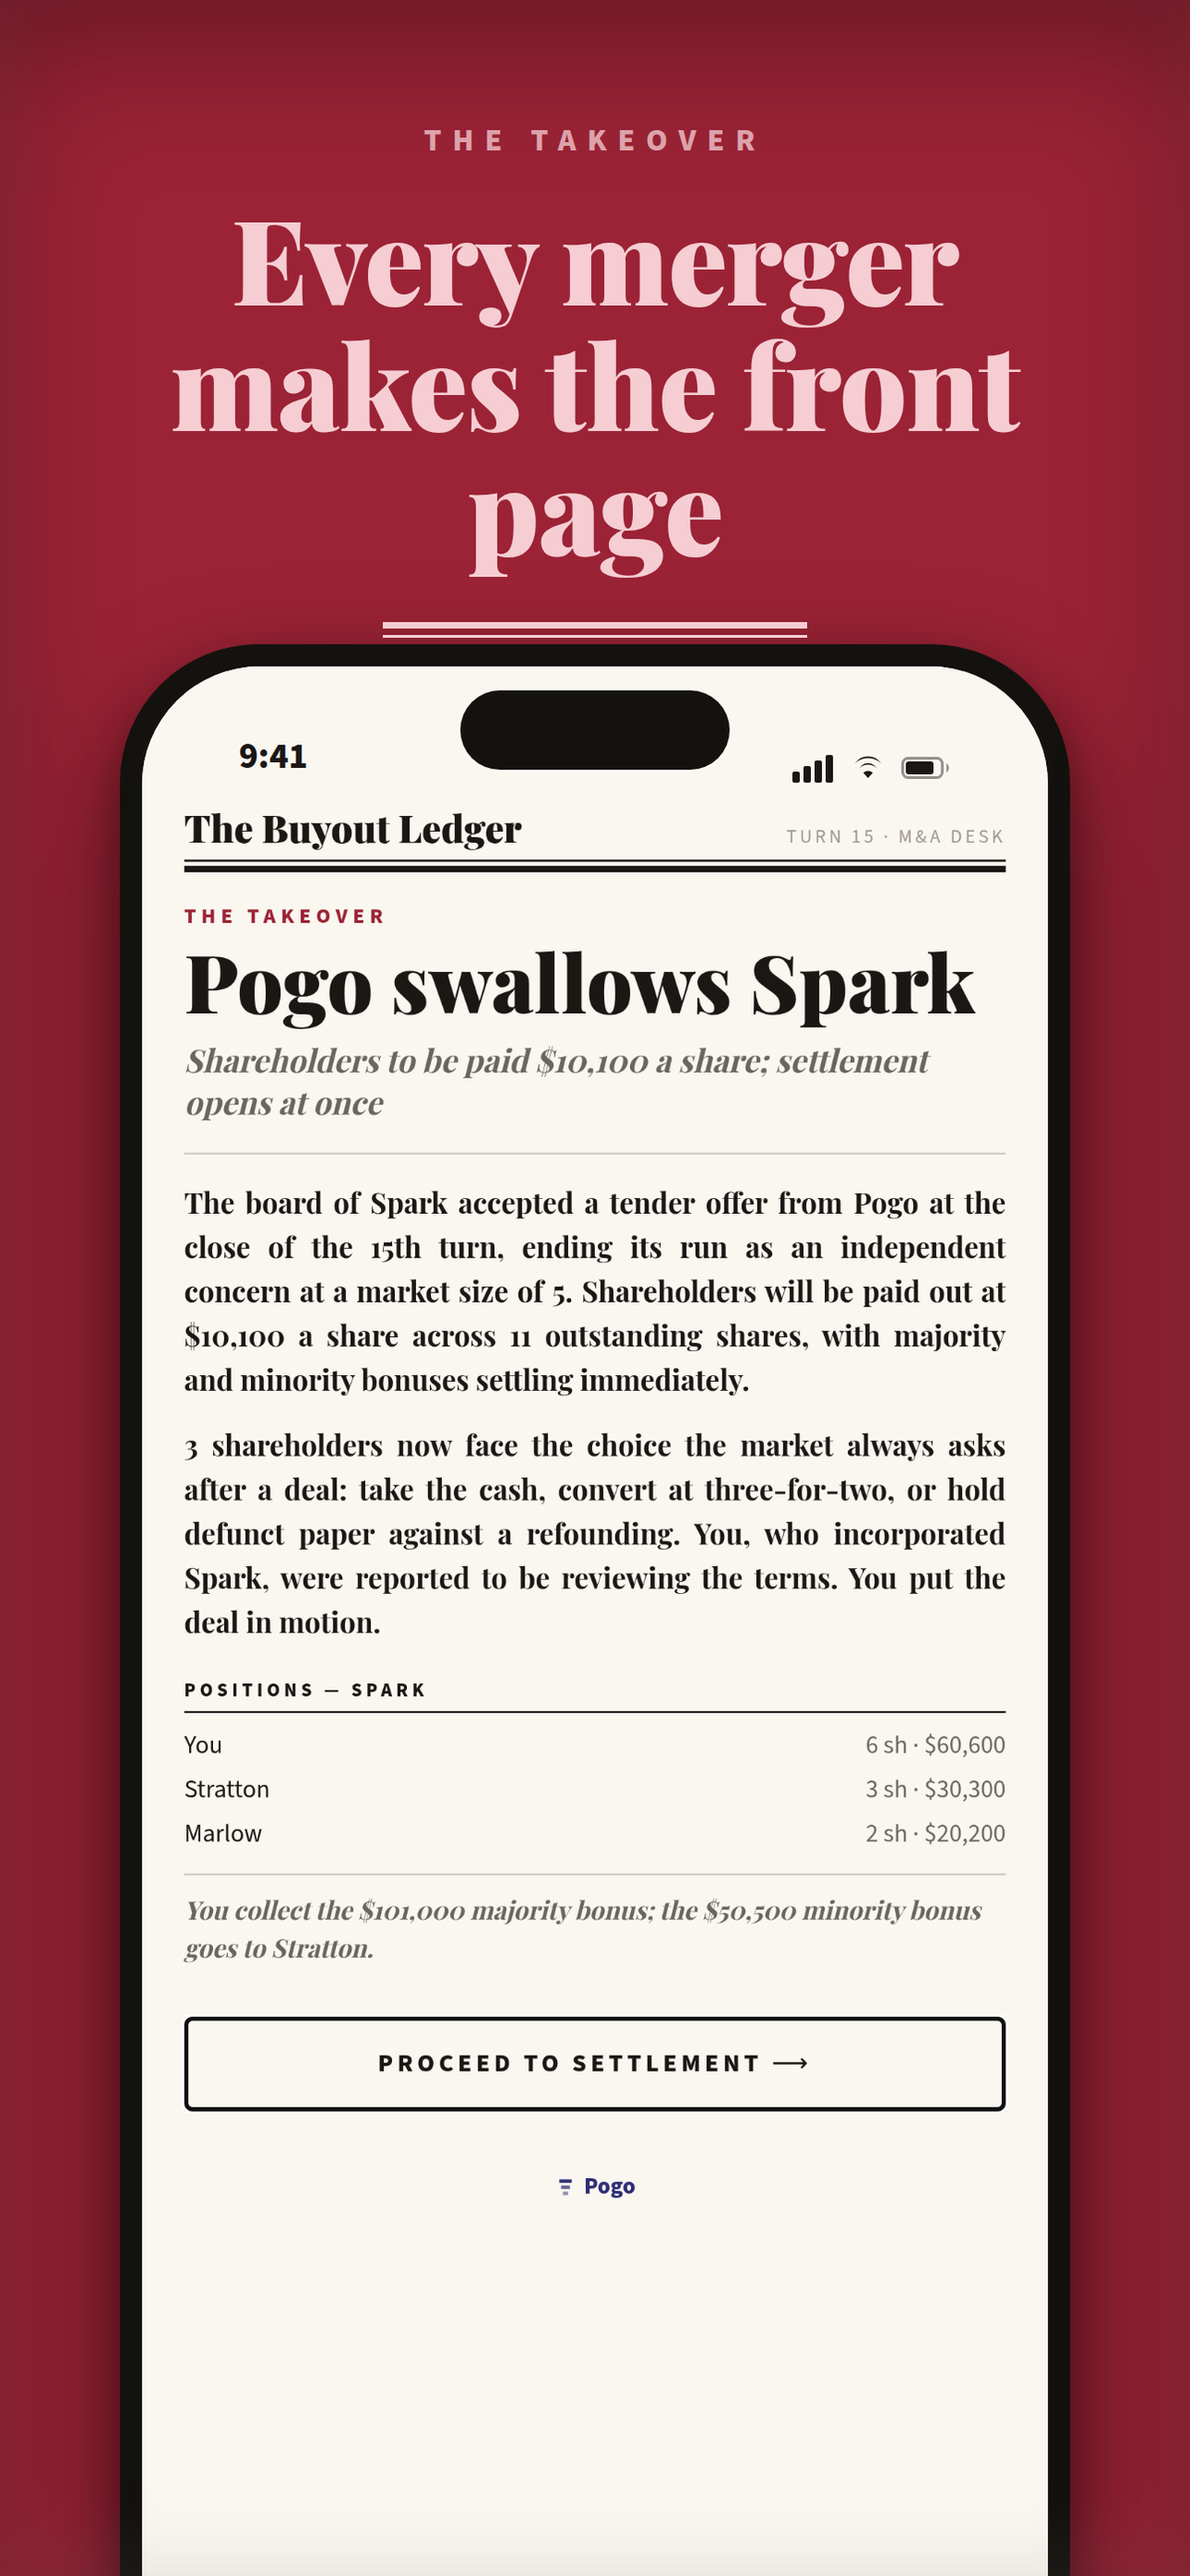
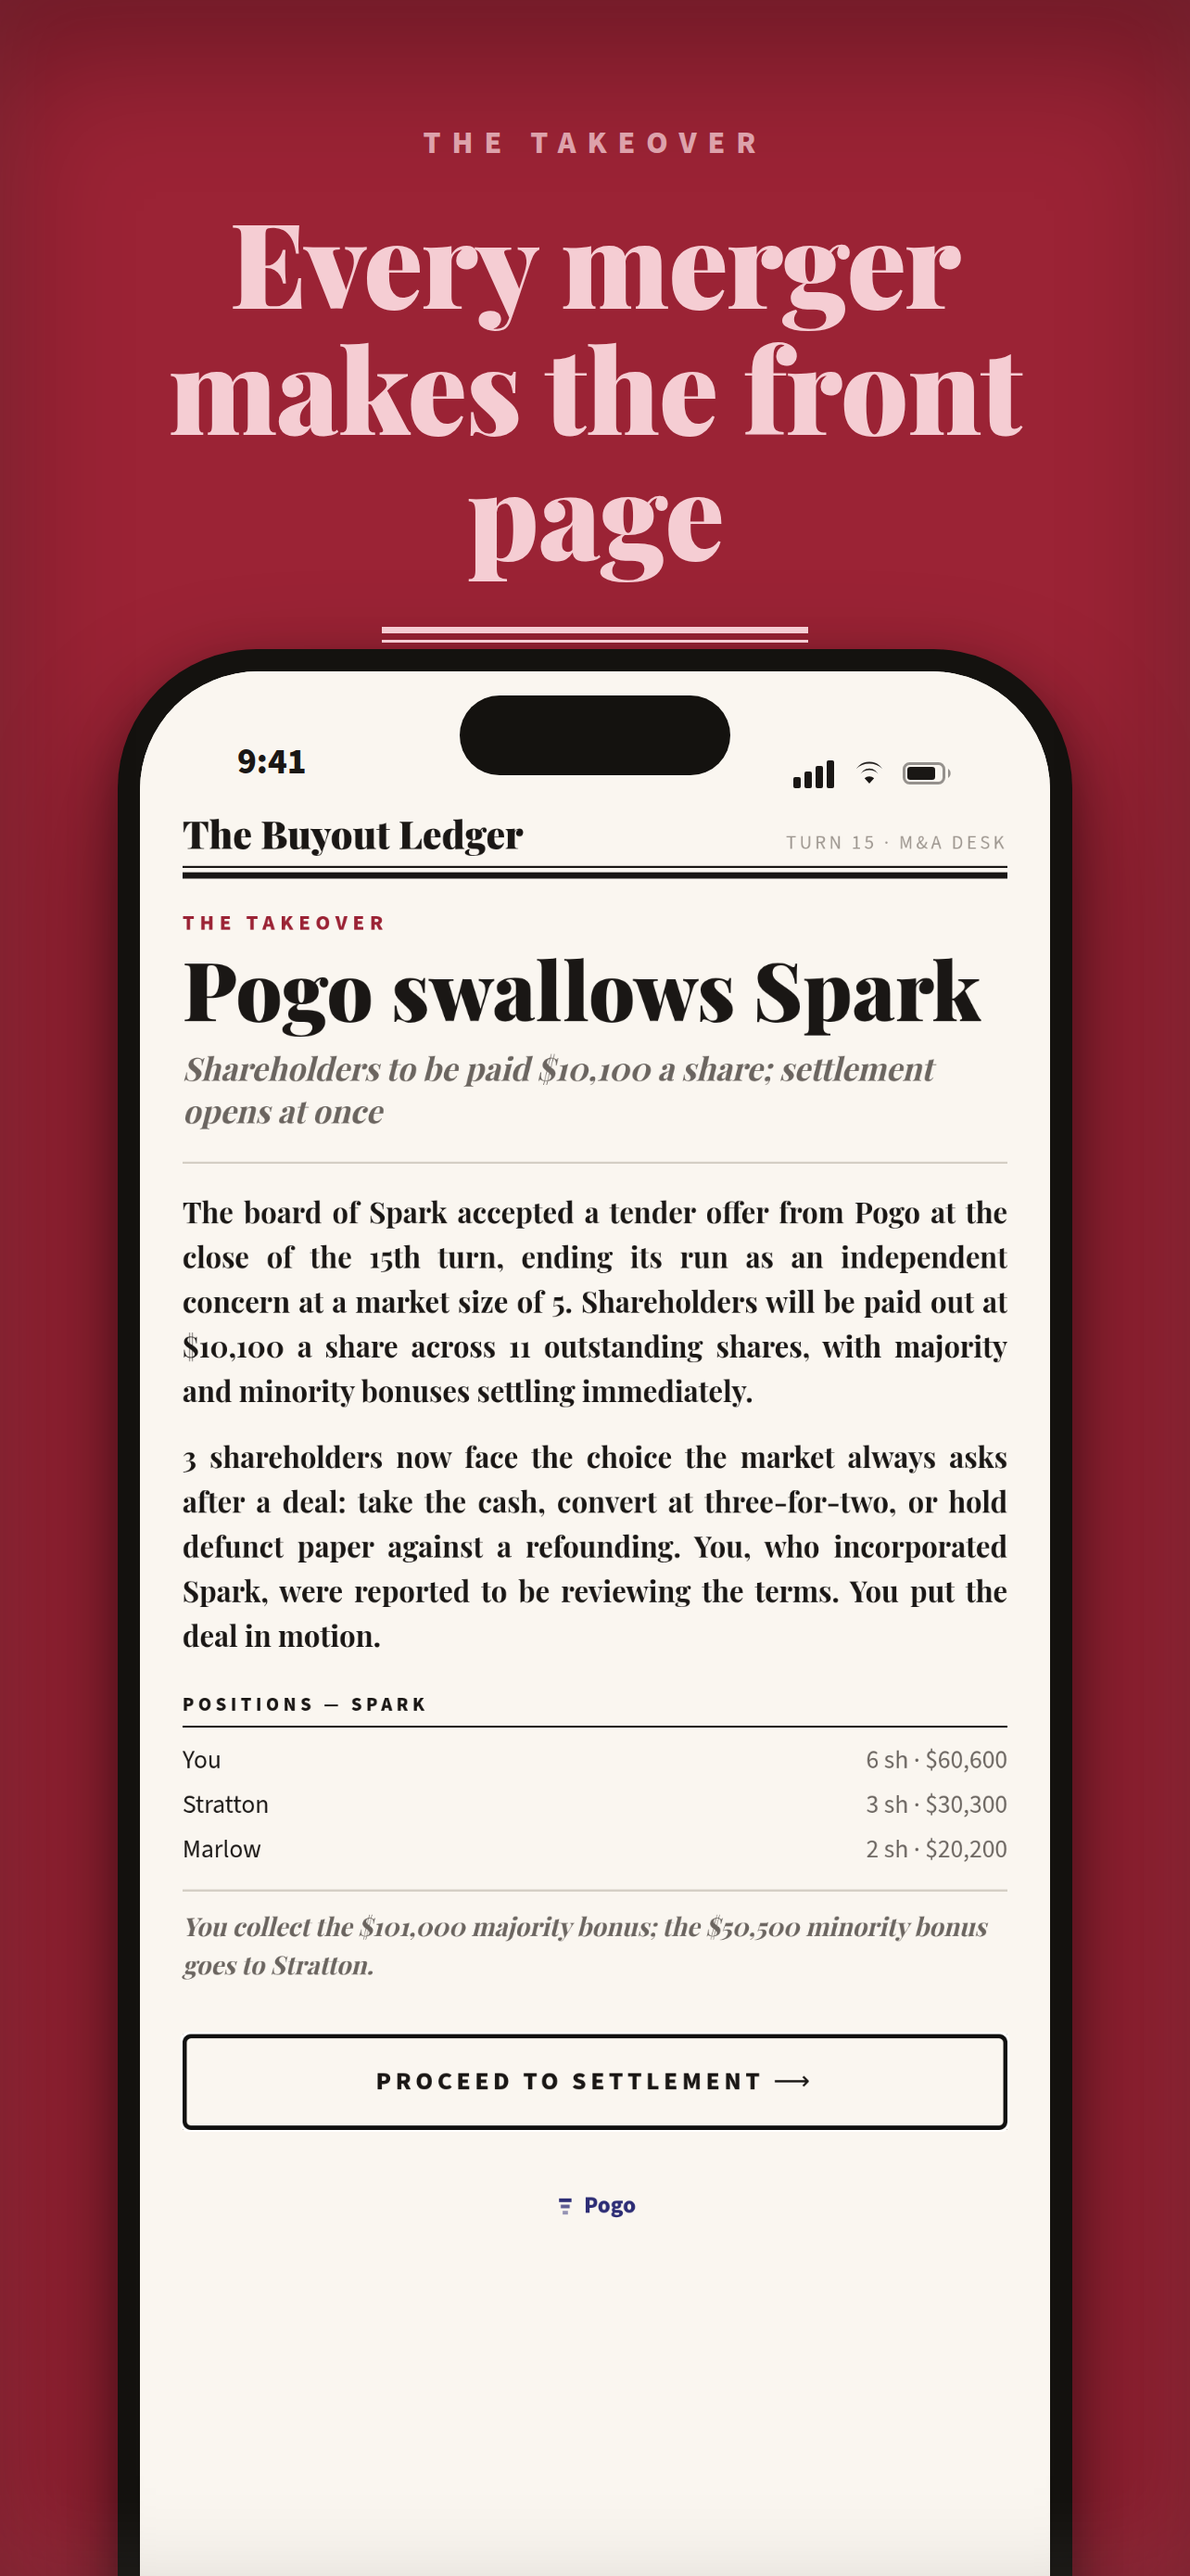
Add the 6.5-inch set and a Duo panel
App Store Connect rejected the 1290x2796 panels: that is the 6.7/6.9-inch
slot, and the one being filled was 6.5-inch, which takes 1284x2778 or
1242x2688 and nothing else. 6.5 is a required slot, and the
appstore-1284 folder it belongs in was as stale as the rest. Regenerated
from captures taken at 428x926@3x, through the same composition resized
to the slot — 0.5% off 1290x2796, so the px-tuned interior needed no
retuning.

The Duo gets its own composer, because a book open is landscape and the
portrait layout has nowhere to put a 2180px device. Same ground, kicker,
Playfair headline and double rule; a wide thin-bezel frame with hinge
studs and a crease down the glass. The app's own column divider lands on
that crease, so "the fold splits the floor from the desk" is a
description rather than a claim.

Apple is not accepting Duo assets yet — the specifications list it as
"Coming Later", with uploading available later this year. Built at the
documented 2853x2007 inner-display landscape size so it is ready when
the slot opens.

The listing doc now carries a table of slot, pixels and filenames,
because guessing which set goes where is what caused the rejection.

Claude-Session: https://claude.ai/code/session_01R5odJfJfNNoGbbR6RZ6VFJ

diff --git a/mobile/design/shots/duo-panels.html b/mobile/design/shots/duo-panels.html
@@ -1,0 +1,123 @@
+<!DOCTYPE html>
+<html>
+<head>
+<meta charset="utf-8">
+<style>
+  /* Same marketing language as panels.html and ipad-panels.html — company
+     ground, letterspaced kicker, Playfair headline, double rule, device.
+     Only the geometry differs: the Duo's inner display is landscape when
+     the book is open, so the head sits above a wide device rather than a
+     tall one. Inner display, landscape: 2853 x 2007. */
+  @font-face {
+    font-family: "Playfair";
+    src: url("../../node_modules/@expo-google-fonts/playfair-display/900Black/PlayfairDisplay_900Black.ttf");
+    font-weight: 900;
+  }
+  @font-face {
+    font-family: "SourceSans";
+    src: url("../../node_modules/@expo-google-fonts/source-sans-3/800ExtraBold/SourceSans3_800ExtraBold.ttf");
+    font-weight: 800;
+  }
+  * { margin: 0; padding: 0; box-sizing: border-box; }
+  body { background: #222; }
+
+  .panel { width: 2853px; height: 2007px; position: relative; overflow: hidden; margin: 40px auto; }
+  .panel::after {
+    content: ""; position: absolute; inset: 0; pointer-events: none;
+    box-shadow: inset 0 60px 140px rgba(0,0,0,0.30), inset 0 -30px 90px rgba(255,255,255,0.06);
+  }
+
+  .head { position: absolute; top: 0; left: 0; right: 0; padding: 96px 140px 0; text-align: center; z-index: 2; }
+  .kicker { font-family: "SourceSans"; font-weight: 800; font-size: 36px;
+    letter-spacing: 14px; text-transform: uppercase; opacity: 0.75; }
+  .headline { font-family: "Playfair"; font-weight: 900; font-size: 116px;
+    line-height: 1.05; margin-top: 26px; letter-spacing: -1px; }
+  .rule { margin: 38px auto 0; width: 520px; }
+  .rule .thick { height: 7px; }
+  .rule .thin { height: 2.5px; margin-top: 7px; }
+
+  /* A folding phone, open: wide, thin bezel, and a seam down the centre
+     where the hinge is. The seam is drawn in the bezel and as the faintest
+     crease on the glass — the fold is the whole point of the shot. */
+  .device {
+    position: absolute; left: 50%; transform: translateX(-50%);
+    top: 470px; width: 2180px;
+    border-radius: 58px; padding: 22px; background: #14120F;
+    box-shadow: 0 70px 140px rgba(0,0,0,0.45), 0 20px 50px rgba(0,0,0,0.35);
+  }
+  .screen { border-radius: 40px; overflow: hidden; position: relative; background: #FAF6F0; }
+  .statusbar { height: 54px; background: #FAF6F0; display: flex; align-items: flex-end;
+    justify-content: space-between; padding: 0 48px 6px; }
+  .sb-time { font-family: "SourceSans"; font-weight: 800; font-size: 26px; color: #1A1715; }
+  .sb-icons { display: flex; align-items: center; gap: 12px; }
+  .screen img { display: block; width: 100%; }
+  .crease {
+    position: absolute; top: 0; bottom: 0; left: 50%; width: 3px; margin-left: -1.5px;
+    background: linear-gradient(90deg, rgba(20,16,12,0) 0%, rgba(20,16,12,0.09) 40%,
+      rgba(20,16,12,0.13) 50%, rgba(20,16,12,0.09) 60%, rgba(20,16,12,0) 100%);
+    pointer-events: none;
+  }
+  .hinge {
+    position: absolute; left: 50%; width: 10px; margin-left: -5px; height: 22px;
+    background: #2A2521; border-radius: 5px;
+  }
+  .hinge.top { top: 0; } .hinge.bot { bottom: 0; }
+
+  .pogo  { background: #3D3D99; } .pogo  .kicker, .pogo  .headline { color: #CDCDF5; } .pogo  .rule div { background: #CDCDF5; }
+  .spark { background: #9B2335; } .spark .kicker, .spark .headline { color: #F5CDD3; } .spark .rule div { background: #F5CDD3; }
+</style>
+</head>
+<body>
+
+<div class="panel pogo" id="p1">
+  <div class="head">
+    <div class="kicker">The Buyout Ledger</div>
+    <div class="headline">The fold splits the floor from the desk</div>
+    <div class="rule"><div class="thick"></div><div class="thin"></div></div>
+  </div>
+  <div class="device">
+    <div class="hinge top"></div><div class="hinge bot"></div>
+    <div class="screen">
+      <div class="statusbar"><span class="sb-time">9:41</span><span class="sb-icons"></span></div>
+      <img src="cap-board-duo.png">
+      <div class="crease"></div>
+    </div>
+  </div>
+</div>
+
+<div class="panel spark" id="p2">
+  <div class="head">
+    <div class="kicker">The Takeover</div>
+    <div class="headline">Every merger makes the front page</div>
+    <div class="rule"><div class="thick"></div><div class="thin"></div></div>
+  </div>
+  <div class="device">
+    <div class="hinge top"></div><div class="hinge bot"></div>
+    <div class="screen">
+      <div class="statusbar"><span class="sb-time">9:41</span><span class="sb-icons"></span></div>
+      <img src="cap-merger-duo.png">
+      <div class="crease"></div>
+    </div>
+  </div>
+</div>
+
+<script>
+  const svg = `
+  <svg width="36" height="26" viewBox="0 0 23 16" fill="#1A1715" xmlns="http://www.w3.org/2000/svg">
+    <rect x="0" y="10" width="4" height="6" rx="1"/><rect x="6" y="7" width="4" height="9" rx="1"/>
+    <rect x="12" y="4" width="4" height="12" rx="1"/><rect x="18" y="1" width="4" height="15" rx="1"/>
+  </svg>
+  <svg width="34" height="26" viewBox="0 0 22 16" fill="#1A1715" xmlns="http://www.w3.org/2000/svg">
+    <path d="M11 13.5 L13.6 10.6 A4 4 0 0 0 8.4 10.6 Z"/>
+    <path d="M6.2 8.2 A7 7 0 0 1 15.8 8.2 L14.2 6.5 A5 5 0 0 0 7.8 6.5 Z" opacity="0.95"/>
+    <path d="M3.8 5.6 A10.5 10.5 0 0 1 18.2 5.6 L16.6 3.9 A8.5 8.5 0 0 0 5.4 3.9 Z" opacity="0.95"/>
+  </svg>
+  <svg width="42" height="26" viewBox="0 0 27 16" xmlns="http://www.w3.org/2000/svg">
+    <rect x="0.75" y="2.75" width="21.5" height="10.5" rx="3" fill="none" stroke="#1A1715" stroke-opacity="0.45" stroke-width="1.5"/>
+    <rect x="2.5" y="4.5" width="15" height="7" rx="1.6" fill="#1A1715"/>
+    <path d="M24.5 5.5 a3 3 0 0 1 0 5 Z" fill="#1A1715" fill-opacity="0.45"/>
+  </svg>`;
+  for (const el of document.querySelectorAll(".sb-icons")) el.innerHTML = svg;
+</script>
+</body>
+</html>

diff --git a/docs/APP-STORE-LISTING.md b/docs/APP-STORE-LISTING.md
@@ -259,8 +259,20 @@ Office, and one purchase retires them for good.
 
 ## Screenshots (in mobile/design/shots/ after pull)
 
-- iPhone 6.9"/6.7" (1290×2796): `panel-1.png` … `panel-6.png` — upload in that order
-- iPad 13"/12.9" (2048×2732): `ipad-panel-1.png` … `ipad-panel-4.png`
-
-Re-shot for 1.4.0 — the previous iPad set showed the board in a corner with
+All re-shot for 1.4.0. The previous iPad set showed the board in a corner with
 half the sheet blank, which is the bug this version fixes.
+
+| Slot | Pixels | Files |
+|---|---|---|
+| iPhone 6.9"/6.7" | 1290×2796 | `panel-1.png` … `panel-6.png` |
+| **iPhone 6.5"** (required) | 1284×2778 | `appstore-1284/panel-1.png` … `-6.png` |
+| iPad 13"/12.9" | 2048×2732 | `ipad-panel-1.png` … `ipad-panel-4.png` |
+| iPhone Duo, inner | 2853×2007 | `duo-panel-1.png`, `duo-panel-2.png` |
+
+Upload in numbered order. The 6.5" slot is the one App Store Connect rejects
+1290×2796 from — it takes 1284×2778 or 1242×2688 only.
+
+**The Duo panels cannot be uploaded yet.** Apple's screenshot specifications
+list iPhone Duo as "Coming Later — support for uploading assets for this
+device will be available later this year." They are built and sized correctly
+so they are ready when the slot opens.
